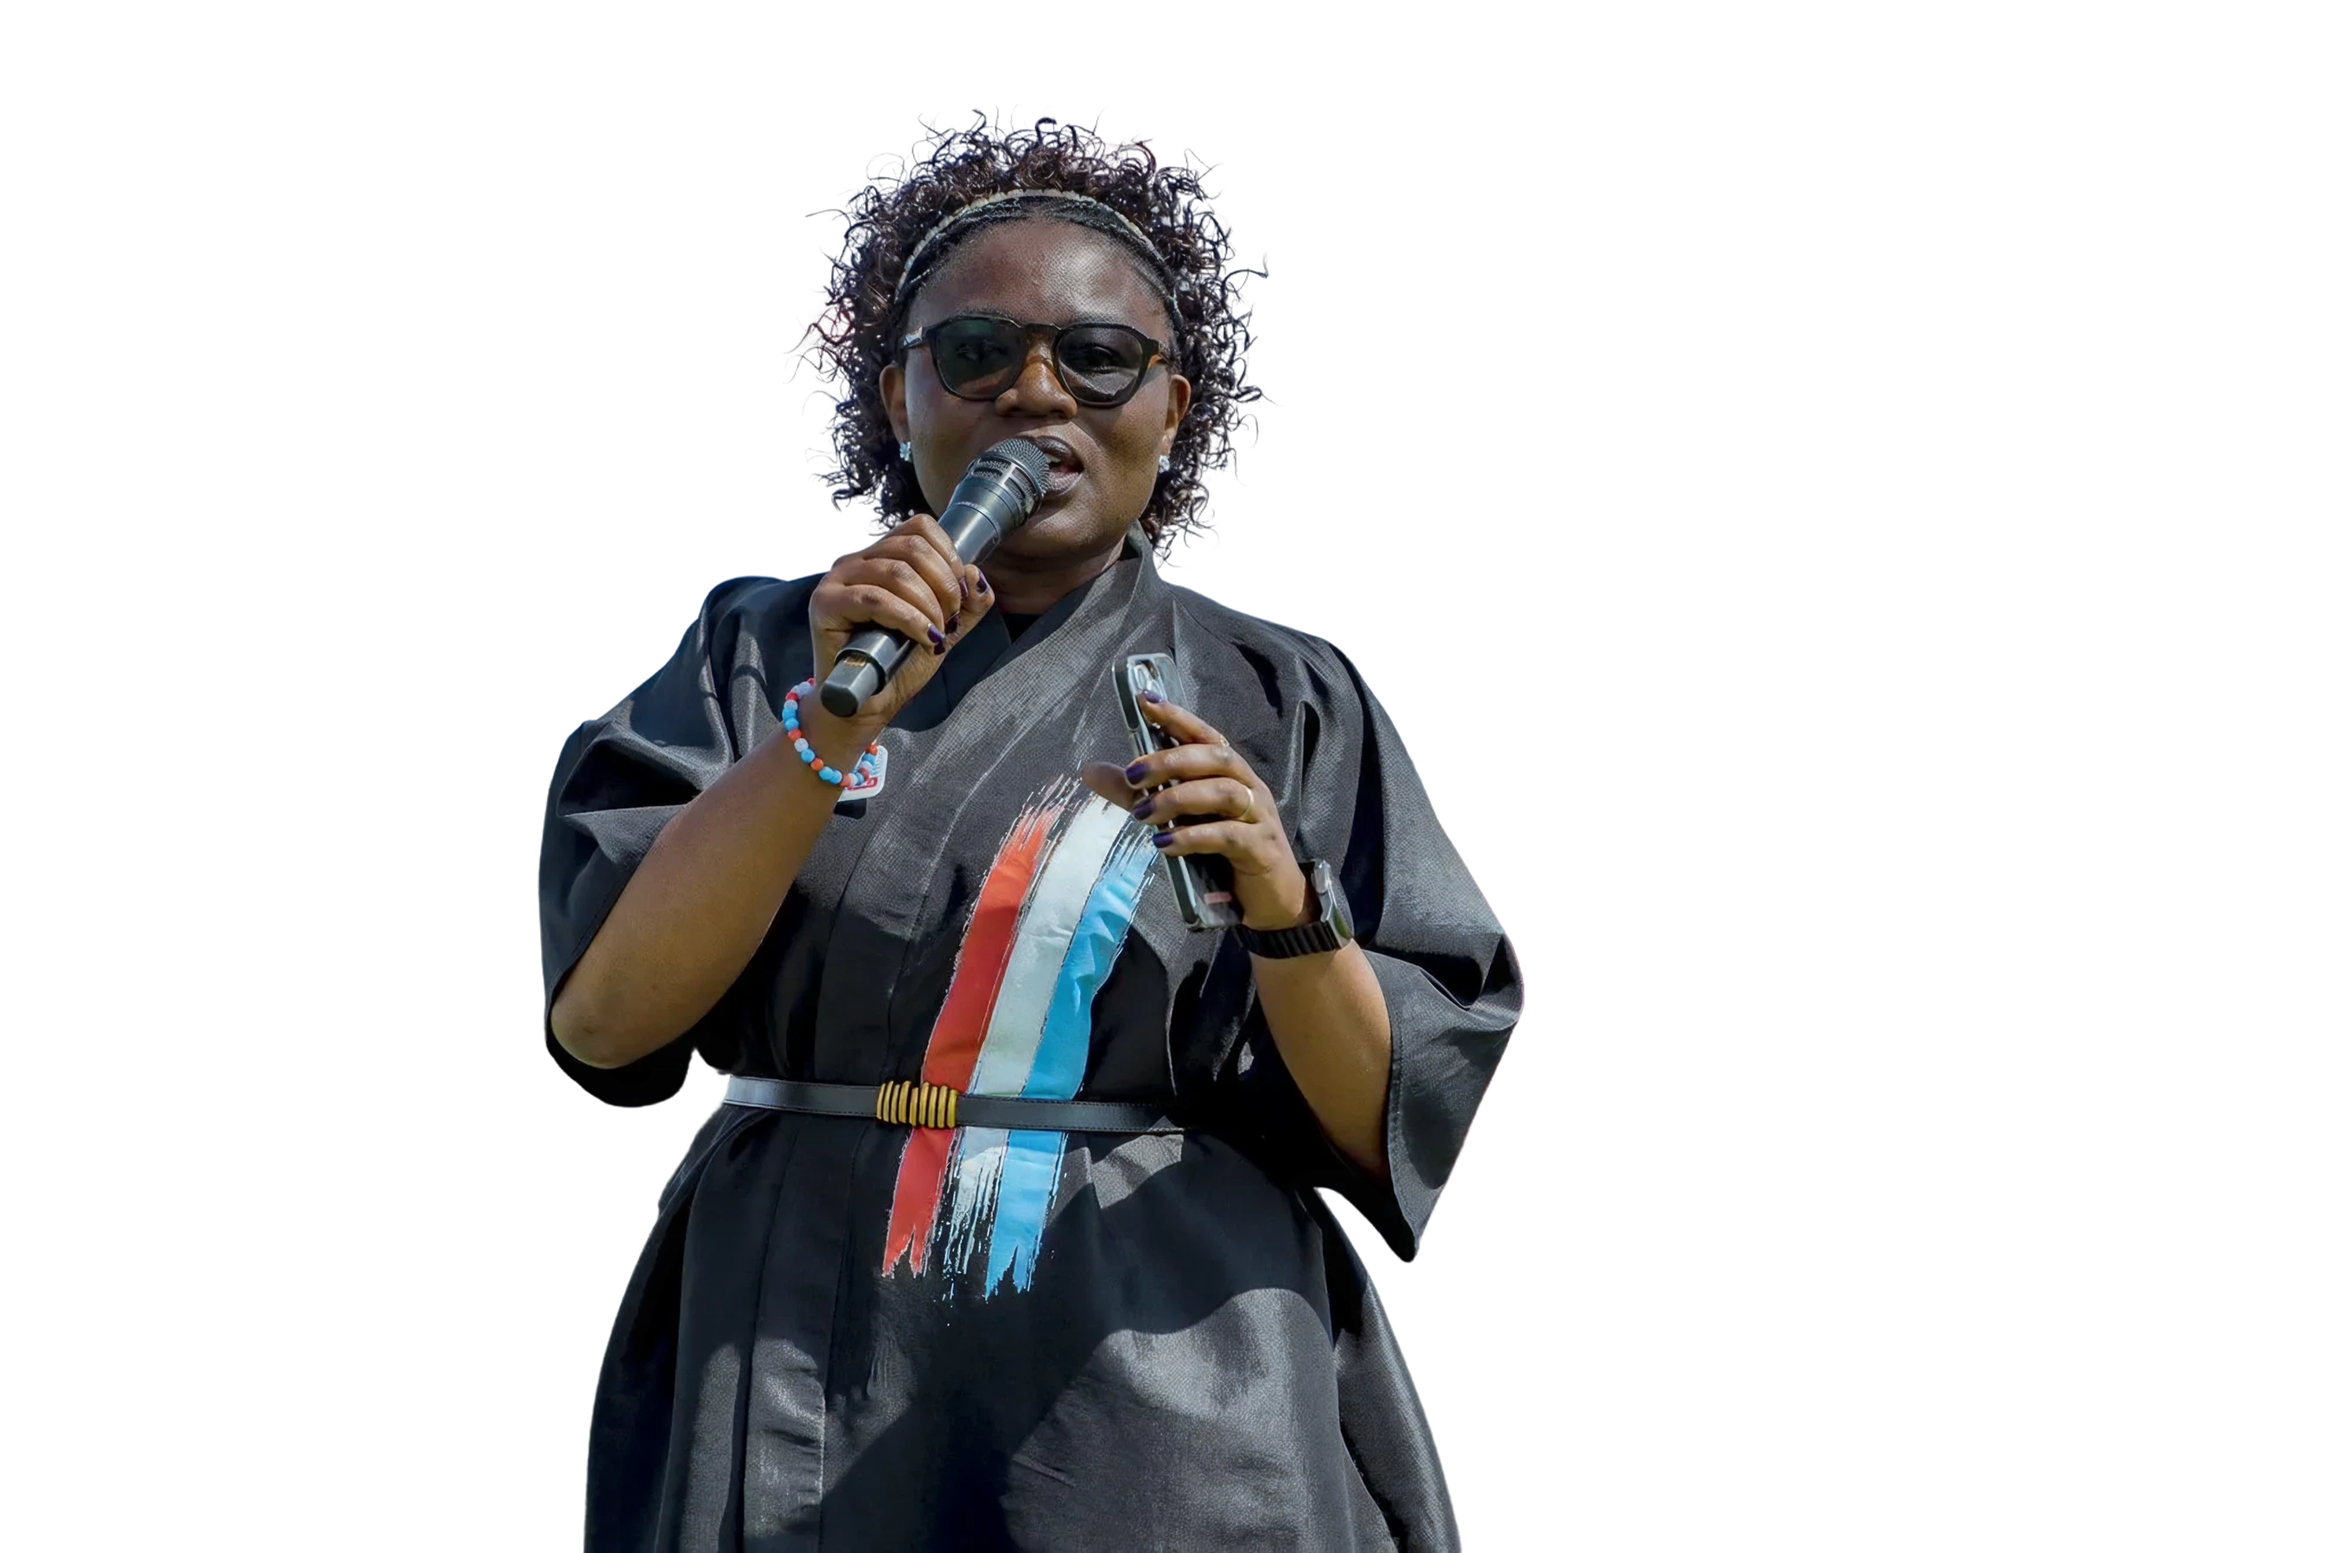
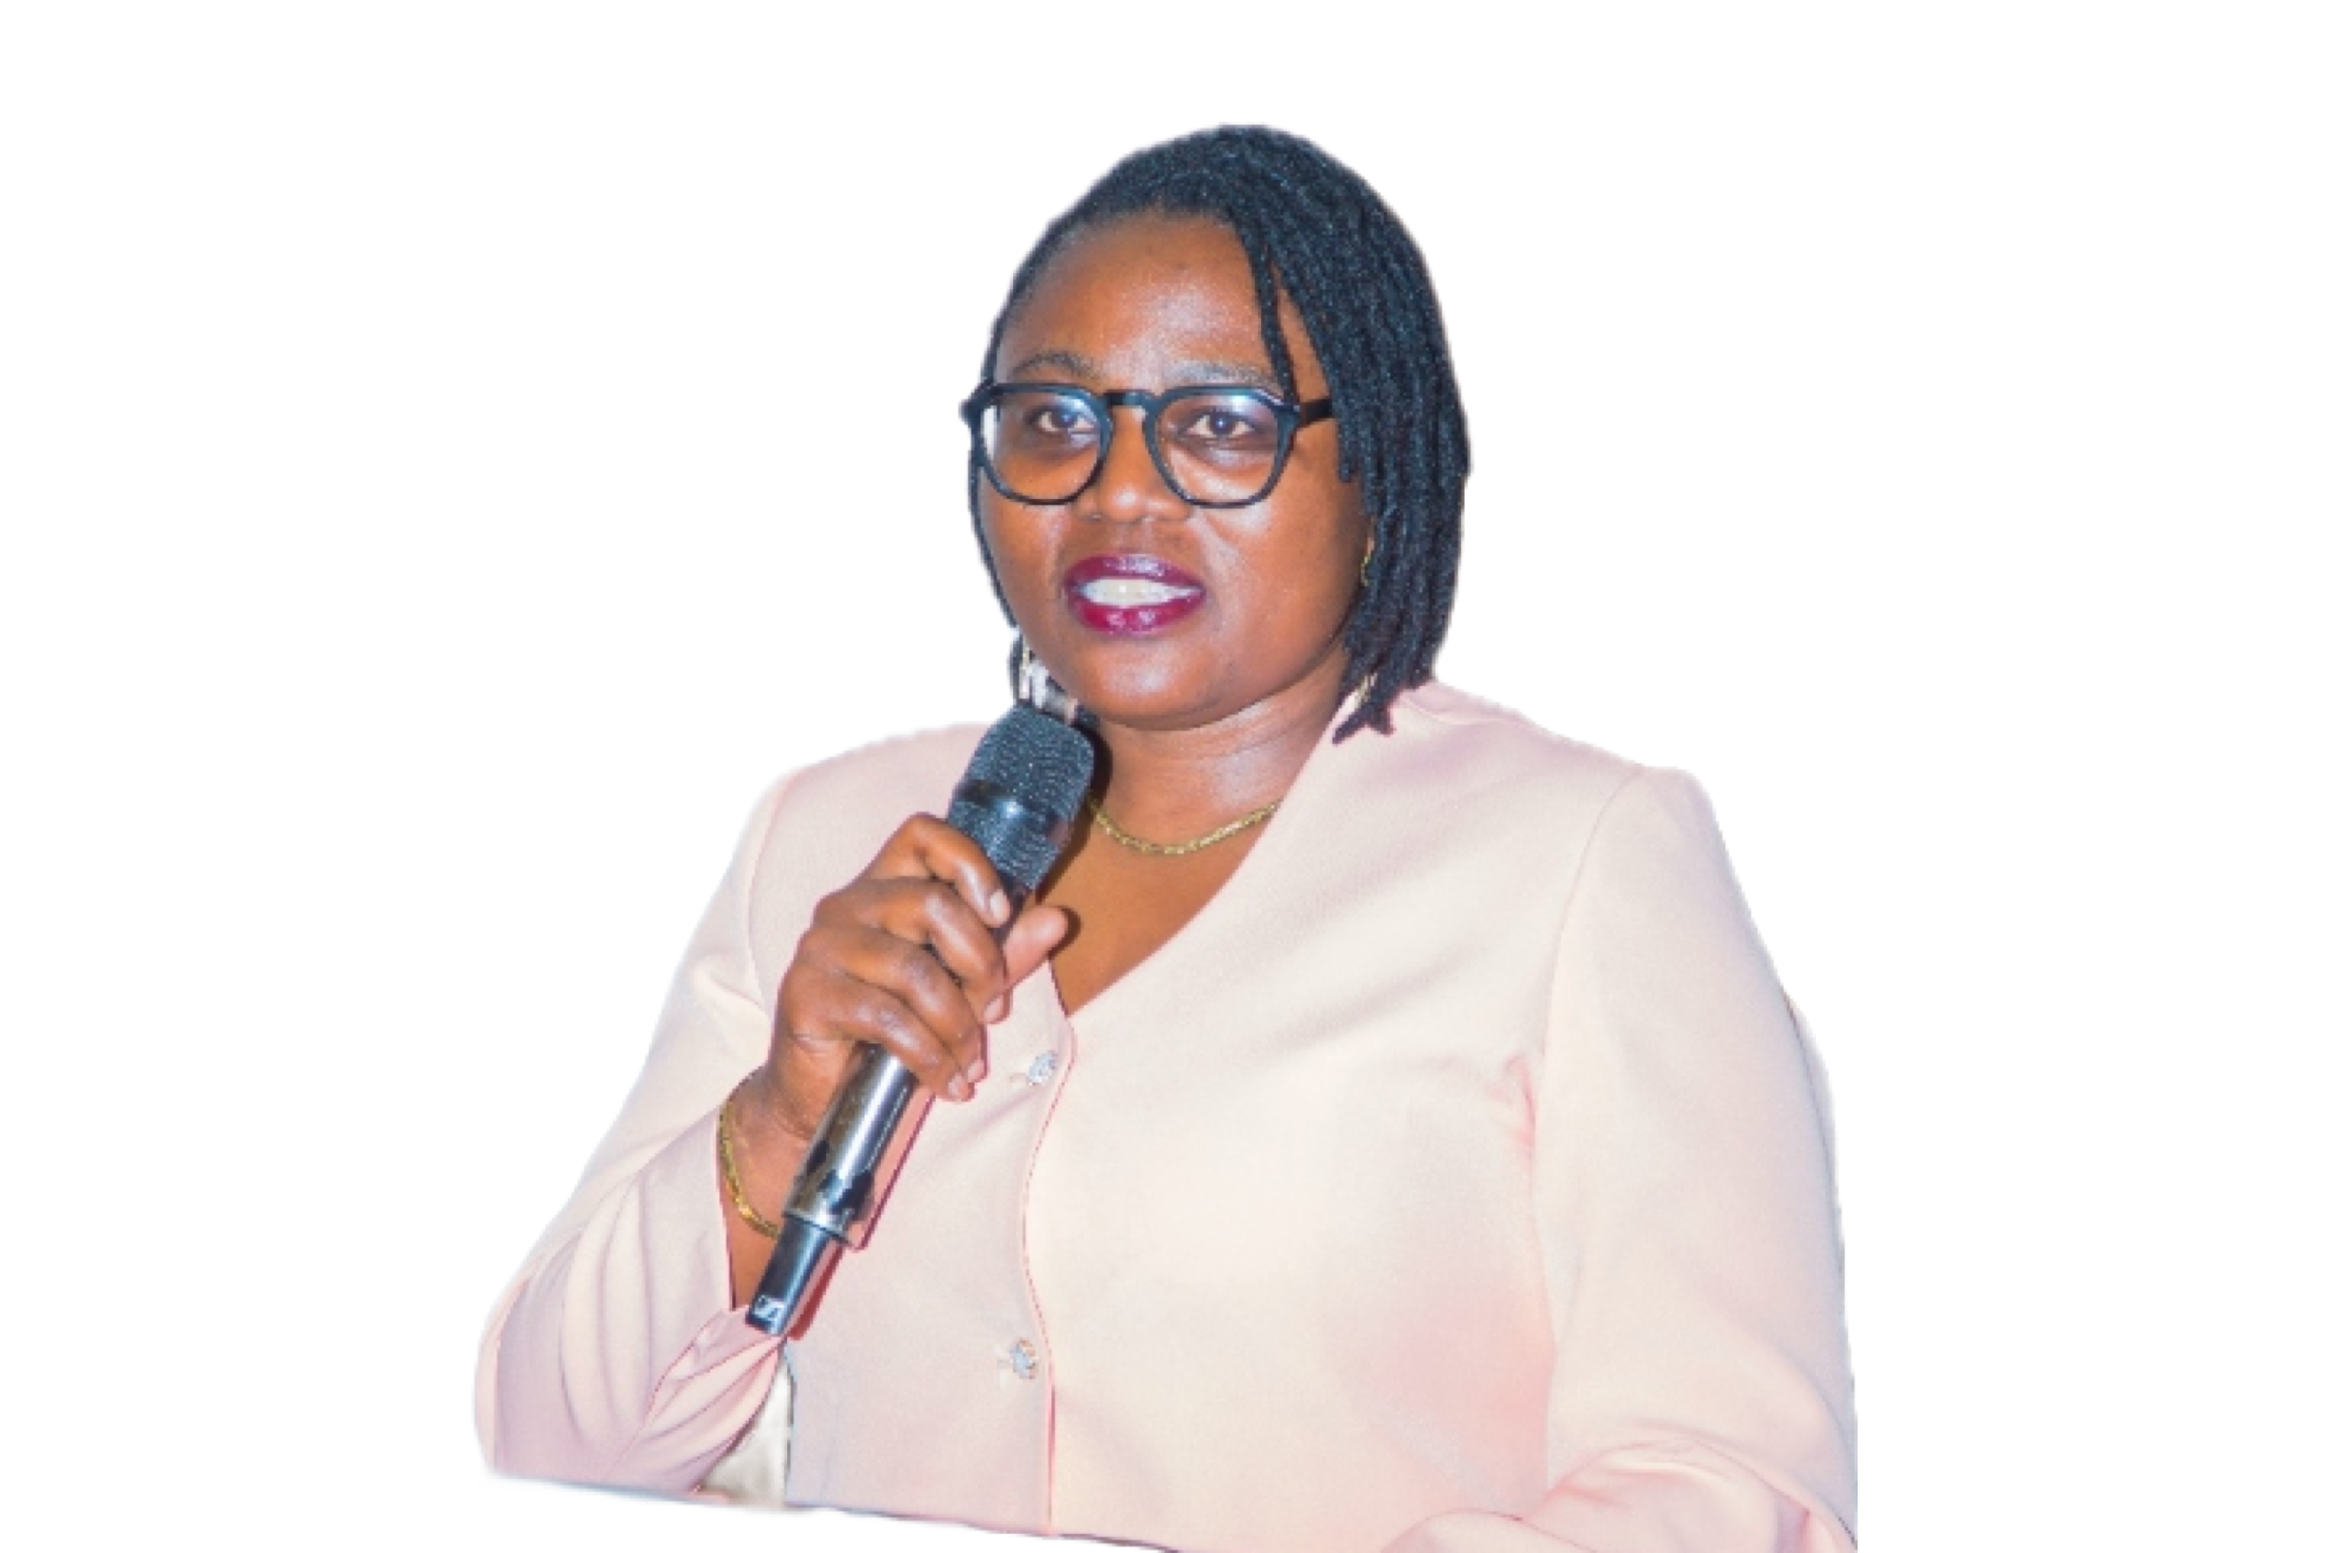
fix: Shangazi image delivery and Sanity Studio asset paths

diff --git a/app/components/LocalSafeImage.tsx b/app/components/LocalSafeImage.tsx
@@ -1,0 +1,14 @@
+// app/components/LocalSafeImage.tsx
+import Image, { type ImageProps } from "next/image";
+
+/**
+ * Serve local /public assets directly when Next.js image optimization returns
+ * a missing endpoint on a Vercel Services deployment. Remote images continue
+ * using Next.js/Vercel optimization.
+ */
+export default function LocalSafeImage(props: ImageProps) {
+  const isLocalPublicAsset =
+    typeof props.src === "string" && props.src.startsWith("/") && !props.src.startsWith("//");
+
+  return <Image {...props} unoptimized={props.unoptimized || isLocalPublicAsset} />;
+}

diff --git a/app/components/header/Header.tsx b/app/components/header/Header.tsx
@@ -1,7 +1,7 @@
 "use client";
 
 import { useState, useEffect, useRef } from "react";
-import Image from "next/image";
+import Image from "../LocalSafeImage";
 import Link from "next/link";
 import Dropdown from "./Dropdown";
 import { authClient } from "@/auth-client";

diff --git a/app/components/testimonials/Testimonials.tsx b/app/components/testimonials/Testimonials.tsx
@@ -1,6 +1,6 @@
 "use client";
 
-import Image from "next/image";
+import Image from "../LocalSafeImage";
 import { useState } from "react";
 
 const testimonials = [

diff --git a/app/components/about/About.tsx b/app/components/about/About.tsx
@@ -1,4 +1,4 @@
-import Image from "next/image"
+import Image from "../LocalSafeImage"
 import Link from "next/link"
 
 export default function About() {

diff --git a/app/components/hero/Hero.tsx b/app/components/hero/Hero.tsx
@@ -1,6 +1,6 @@
 "use client"
 
-import Image from "next/image"
+import Image from "../LocalSafeImage"
 
 export default function Hero() {
   return (
